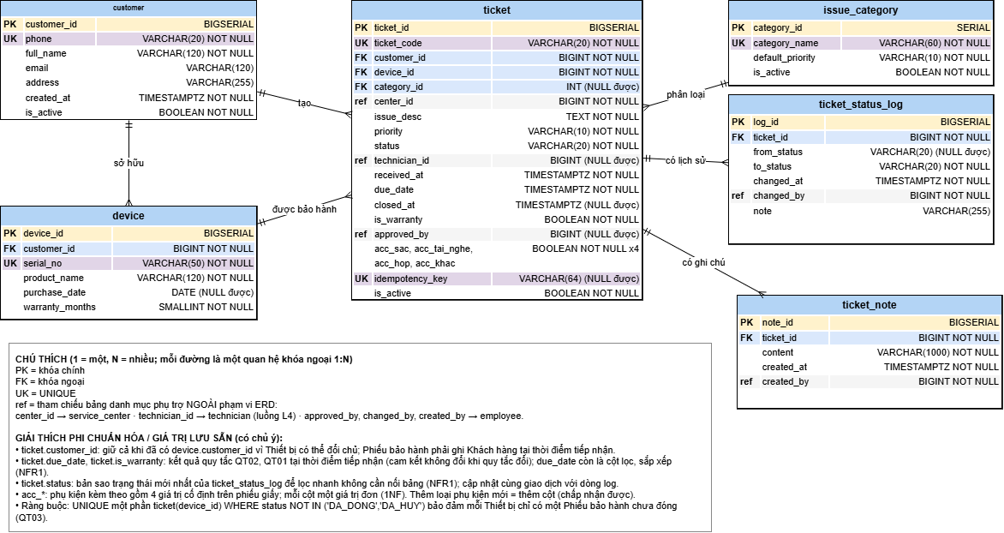
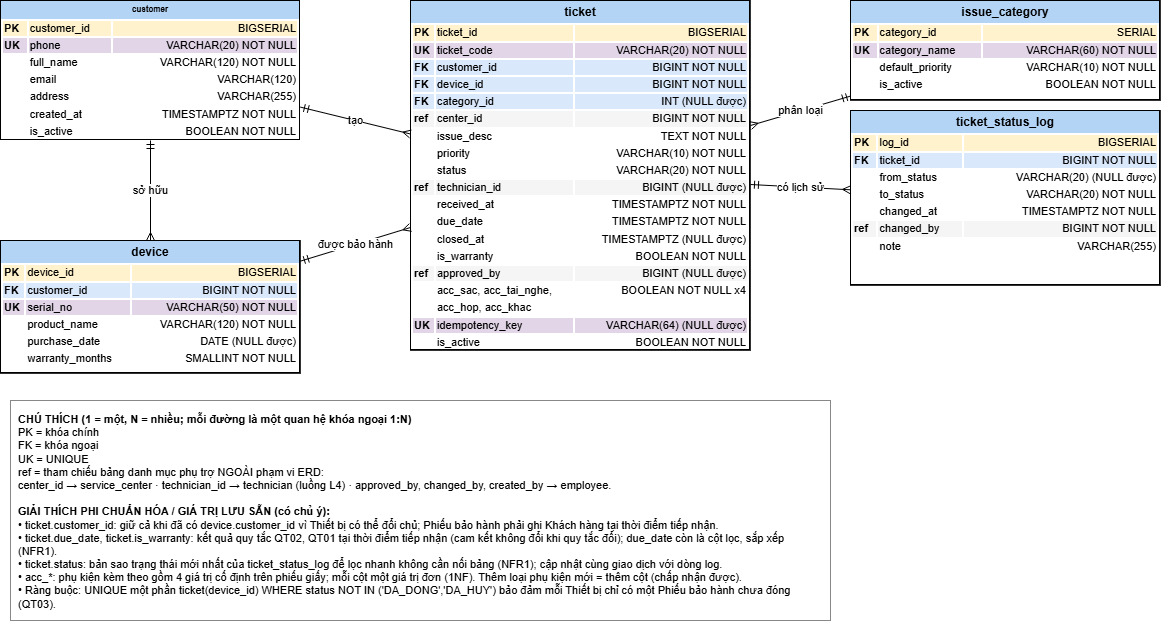
docs: điều chỉnh thiết kế theo phản hồi BT1

diff --git a/docs/diagrams/srs.md b/docs/diagrams/srs.md
@@ -38,7 +38,6 @@ Sinh viên: Hà Đăng Khoa · MSSV: 2374802010228 · Track: SE
 | Nhóm sự cố          | Phân loại nguyên nhân: màn hình, pin, sạc, phần mềm, nước vào, khác                                                          | issue_category                |
 | Mức ưu tiên         | Mức khẩn của phiếu bảo hành: CAO, TRUNG BÌNH, THẤP; quyết định hạn cam kết                                                   | priority                      |
 | Mô tả lỗi           | Nội dung lỗi do khách hàng kể, ghi bằng văn bản                                                                              | issue_desc                    |
-| Ghi chú trao đổi    | Một nội dung trao đổi giữa nhân viên tiếp nhận và khách hàng, gắn với một Phiếu bảo hành, kèm thời điểm và người ghi         | ticket_note                   |
 | Nhân viên tiếp nhận | Nhân viên trung tâm bảo hành tiếp nhận yêu cầu và ghi phiếu bảo hành                                                         | \-                            |
 | Kỹ thuật viên       | Nhân viên thực hiện sửa chữa                                                                                                 | technician                    |
 | Quản lý trung tâm   | Người quản lý trung tâm bảo hành, theo dõi hạn cam kết và phê duyệt ngoại lệ                                                 | \-                            |
@@ -65,7 +64,6 @@ Sinh viên: Hà Đăng Khoa · MSSV: 2374802010228 · Track: SE
 | FR5 | Hệ thống hiển thị danh sách Phiếu bảo hành có lọc theo Trạng thái phiếu, sắp theo Hạn cam kết tăng dần và có phân trang.                                                                     |
 | FR6 | Hệ thống cho phép chuyển Trạng thái phiếu theo đúng vòng đời và ghi mỗi lần chuyển kèm thời điểm và người thực hiện.                                                                         |
 | FR7 | Hệ thống hiển thị danh sách các Phiếu bảo hành trước đó của một Thiết bị kèm Nhóm sự cố, và gắn cảnh báo "lỗi lặp lại" khi Thiết bị có từ ba Phiếu bảo hành cùng Nhóm sự cố.                 |
-| FR8 | Hệ thống lưu mỗi nội dung trao đổi với Khách hàng thành một Ghi chú trao đổi gắn với Phiếu bảo hành, kèm thời điểm và người ghi; Ghi chú trao đổi đã lưu không được sửa hoặc xóa.            |
 
 **User Story**
 
@@ -78,9 +76,8 @@ Sinh viên: Hà Đăng Khoa · MSSV: 2374802010228 · Track: SE
 | US5 | Là Quản lý trung tâm, tôi muốn xem danh sách Phiếu bảo hành theo Hạn cam kết, để biết phiếu nào sắp quá hạn và xử lý trước.                                                                          | SHOULD |
 | US6 | Là Kỹ thuật viên, tôi muốn cập nhật Trạng thái phiếu, để mọi người biết Phiếu bảo hành đang ở bước nào.                                                                                              | COULD  |
 | US7 | Là Kỹ thuật viên, tôi muốn xem các Phiếu bảo hành trước đó của một Thiết bị kèm Nhóm sự cố, để nhận ra lỗi lặp lại lần thứ ba và báo lên thay vì sửa tiếp.                                           | SHOULD |
-| US8 | Là Nhân viên tiếp nhận, tôi muốn ghi lại nội dung trao đổi với Khách hàng theo từng Phiếu bảo hành, kèm thời điểm và người ghi, để không phải hỏi lại Khách hàng và có căn cứ khi xảy ra tranh chấp. | COULD  |
 
-*Phân bố MoSCoW: 3 MUST (US1–US3) · 3 SHOULD (US4, US5, US7) · 2 COULD (US6, US8).*
+*Phân bố MoSCoW: 3 MUST (US1–US3) · 3 SHOULD (US4, US5, US7) · 1 COULD (US6).*
 
 # 4. Yêu cầu phi chức năng
 
@@ -109,7 +106,6 @@ Sinh viên: Hà Đăng Khoa · MSSV: 2374802010228 · Track: SE
 | FR5   | Xem danh sách Phiếu bảo hành theo Hạn cam kết                 | US5        | UC5 – Xem danh sách Phiếu bảo hành theo Hạn cam kết        | SHOULD | GET /api/tickets                                          |
 | FR6   | Chuyển Trạng thái phiếu và ghi lịch sử                        | US6        | UC6 – Cập nhật Trạng thái phiếu                            | COULD  | PATCH /api/tickets/{id}/status                            |
 | FR7   | Xem lịch sử Phiếu bảo hành của Thiết bị, cảnh báo lỗi lặp lại | US7        | UC7 – Xem lịch sử Phiếu bảo hành của Thiết bị              | SHOULD | GET /api/tickets?device_id=                               |
-| FR8   | Lưu Ghi chú trao đổi trên Phiếu bảo hành                      | US8        | UC8 – Ghi nhận trao đổi với Khách hàng trên Phiếu bảo hành | COULD  | POST /api/tickets/{id}/notes; GET /api/tickets/{id}/notes |
 
 # Mục 2: User Story: tự kiểm INVEST và tiêu chí chấp nhận
 
@@ -124,7 +120,6 @@ Sinh viên: Hà Đăng Khoa · MSSV: 2374802010228 · Track: SE
 | US5   | V2 (chị Trâm: cần màn hình thấy phiếu sắp quá hạn)                                   | Đạt 6/6. Chỉ đọc.                                                                         |
 | US6   | V2 (không biết phiếu ở bước nào)                                                     | Đạt 6/6. Không gán Kỹ thuật viên (thuộc L4).                                              |
 | US7   | Phát biểu của anh Dũng: sửa lần ba cùng lỗi thường là lỗi lô hàng                    | Đạt 6/6. Chỉ đọc; ngưỡng "từ ba Phiếu" kiểm chứng được.                                   |
-| US8   | Phát biểu của chị Lan: yêu cầu thật đằng sau ô ghi chú tự do là lưu lịch sử trao đổi | Đạt 6/6. Nêu mục tiêu (lịch sử có thời điểm, người ghi), không nêu giải pháp "ô ghi chú". |
 
 ## 2. Tiêu chí chấp nhận cho story MUST (Given – When – Then)
 
@@ -162,8 +157,6 @@ Sinh viên: Hà Đăng Khoa · MSSV: 2374802010228 · Track: SE
 
 - **US7:** GIVEN một Thiết bị đã có hai Phiếu bảo hành cùng Nhóm sự cố PIN, WHEN Kỹ thuật viên xem lịch sử của Thiết bị khi có Phiếu thứ ba cùng Nhóm sự cố PIN, THEN hệ thống hiển thị cảnh báo "lỗi lặp lại".
 
-- **US8:** GIVEN Nhân viên tiếp nhận đã lưu một Ghi chú trao đổi, WHEN mở lại Phiếu bảo hành, THEN hệ thống hiển thị ghi chú kèm thời điểm và tên người ghi, và không có chức năng sửa hoặc xóa ghi chú đó.
-
 # Mục 3: Use Case
 
 ## 1. Use Case Diagram
@@ -183,7 +176,6 @@ Sinh viên: Hà Đăng Khoa · MSSV: 2374802010228 · Track: SE
 | UC5 | Xem danh sách Phiếu bảo hành theo Hạn cam kết        | Quản lý trung tâm                           | US5 | FR5 | SHOULD |
 | UC6 | Cập nhật Trạng thái phiếu                            | Kỹ thuật viên                               | US6 | FR6 | COULD  |
 | UC7 | Xem lịch sử Phiếu bảo hành của Thiết bị              | Kỹ thuật viên                               | US7 | FR7 | SHOULD |
-| UC8 | Ghi nhận trao đổi với Khách hàng trên Phiếu bảo hành | Nhân viên tiếp nhận                         | US8 | FR8 | COULD  |
 
 Quan hệ: UC2 «include» UC1 (luôn tra cứu Khách hàng); UC2 «include» UC4 (luôn đề xuất phân loại); UC3 «extend» UC2 (chỉ xảy ra khi Khách hàng chưa tồn tại).
 
@@ -236,8 +228,6 @@ Quan hệ: UC2 «include» UC1 (luôn tra cứu Khách hàng); UC2 «include» U
 | 4   | POST        | /api/tickets                                                      | Tạo Phiếu bảo hành mới                                                            | US2, US4   | MUST   |
 | 5   | GET         | /api/tickets?status=&assignee_id=&overdue=&device_id=&page=&size= | Lấy danh sách Phiếu bảo hành, có lọc và phân trang; lọc theo Thiết bị cho lịch sử | US5, US7   | SHOULD |
 | 6   | PATCH       | /api/tickets/{id}/status                                          | Chuyển Trạng thái phiếu                                                           | US6        | COULD  |
-| 7   | POST        | /api/tickets/{id}/notes                                           | Ghi một Ghi chú trao đổi vào Phiếu bảo hành                                       | US8        | COULD  |
-| 8   | GET         | /api/tickets/{id}/notes                                           | Xem các Ghi chú trao đổi của Phiếu bảo hành                                       | US8        | COULD  |
 
 ## 2. Quy ước chung
 
